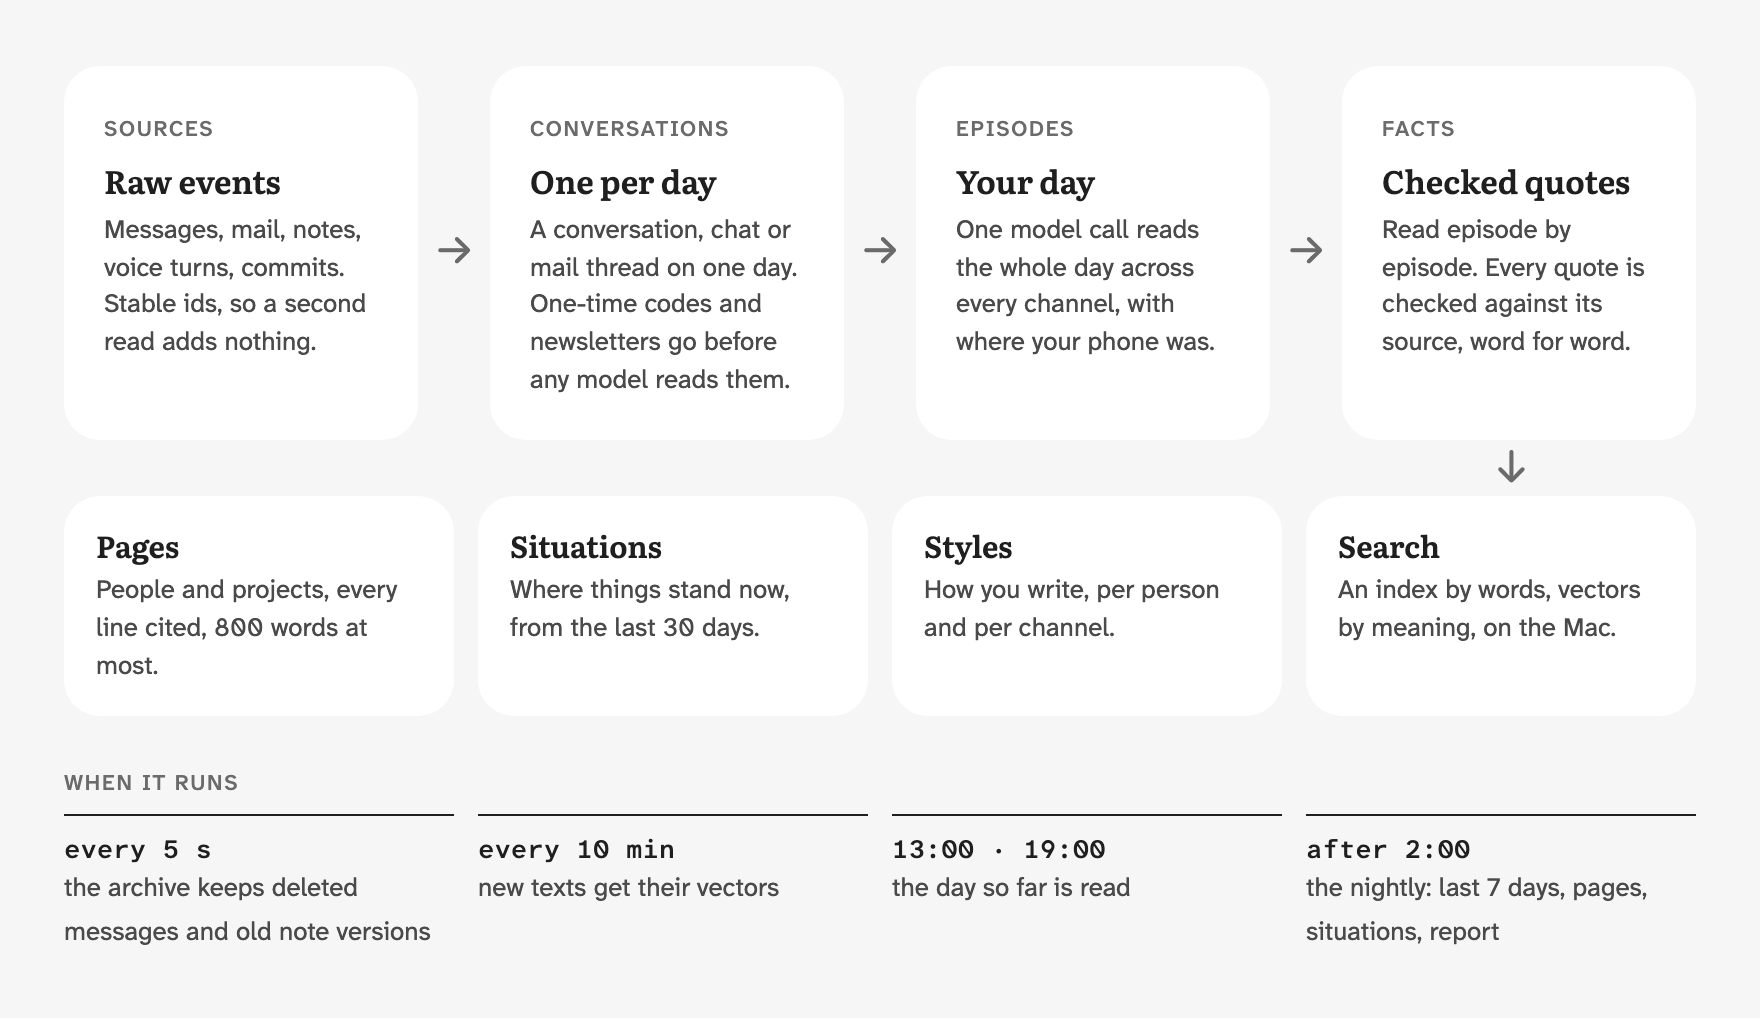
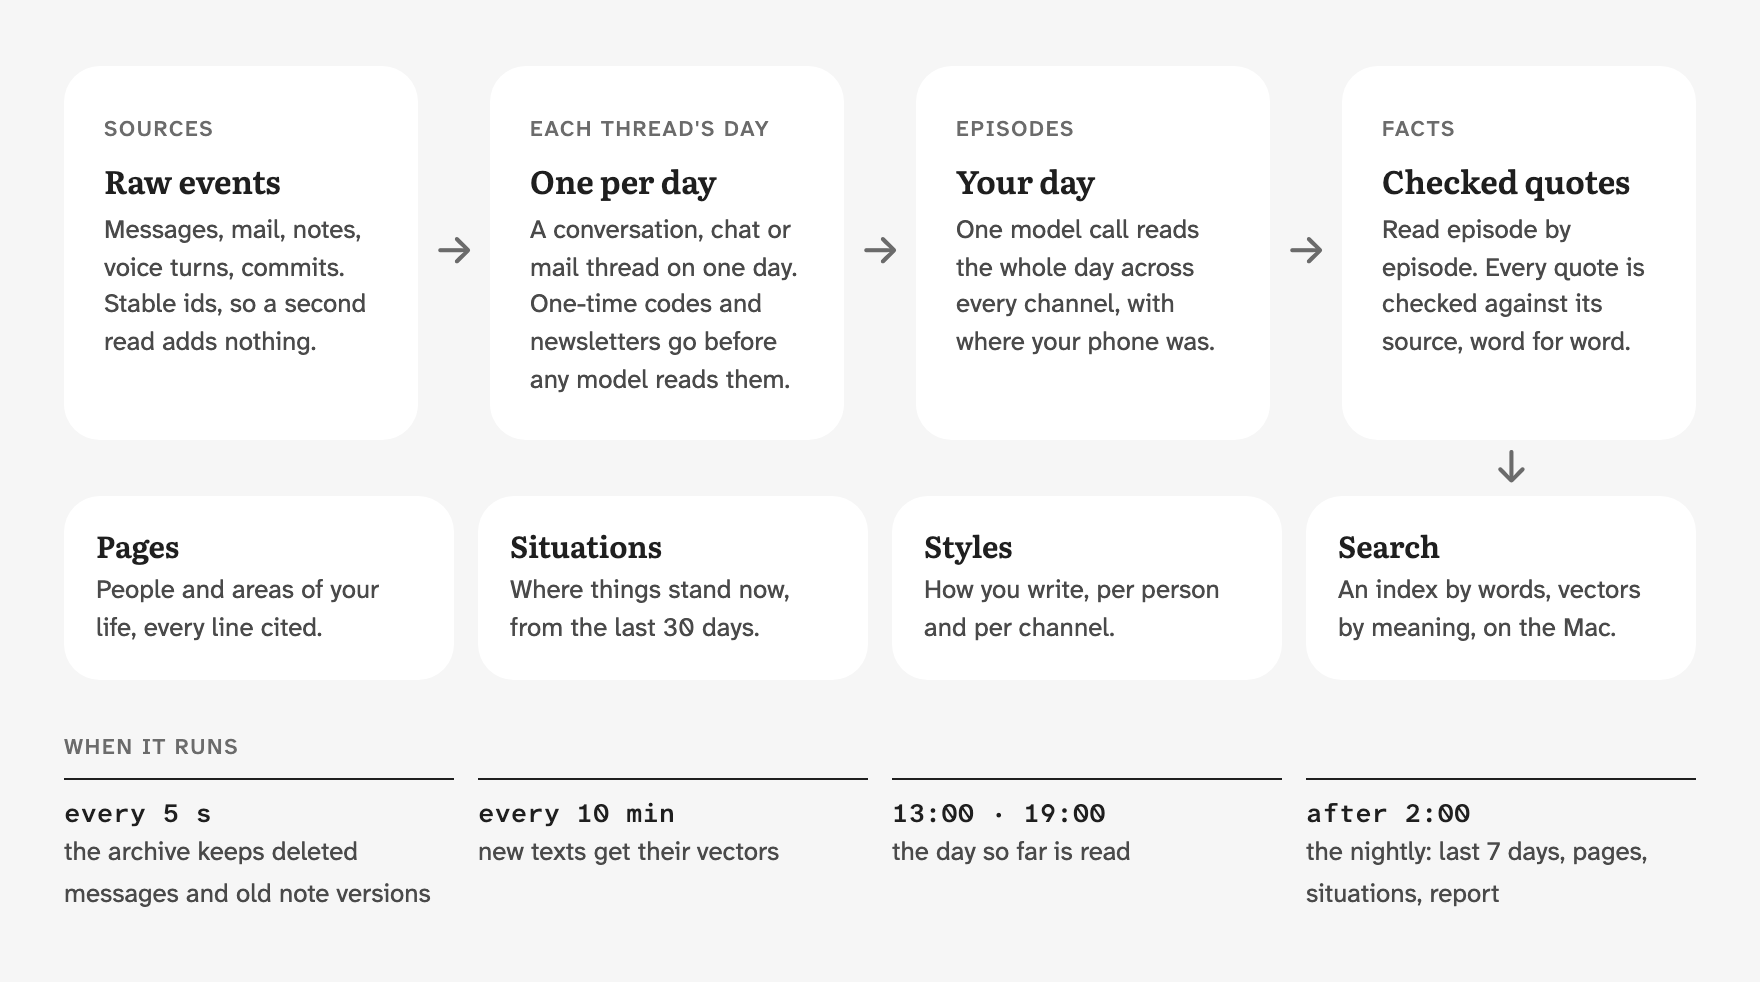
Verdict fixes: Funnel stated, archive sources named, pages per area, one owner hold (ownerHold), figures checked by demo.test, calendar marked as an illustration, duplicates dropped

diff --git a/scripts/demo.ts b/scripts/demo.ts
@@ -12,6 +12,8 @@ import {
   perSection,
   renderPage,
 } from "@life/server/src/memory/page-format";
+import { ownerHold } from "@life/server/src/memory/pages";
+import { readMe } from "@life/server/src/memory/read-truth";
 import { madeBy, unit } from "@life/server/src/memory/record-fixtures";
 
 // A made-up Life for the README and docs/examples.md: `bun scripts/demo.ts <new folder>` writes `data/` and `state/` there (the tests'
@@ -26,12 +28,6 @@ import { madeBy, unit } from "@life/server/src/memory/record-fixtures";
 //       read \`person me\` first. Today is Thursday 22 October 2026. Cite observation and episode ids. Answer concisely." \
 //     "Has my past week been aligned with my goals? What should I change next week?"
 // (The landlord transcript ran on 22 Oct with an earlier, shorter prompt.)
-//
-// The README's screenshots were made by hand, with no script kept: `snapshot()` (apps/server/src/host/status/snapshot.ts), run with the same
-// LIFE_OWNER_DATA_DIR and LIFE_STATE_DIR, printed the status snapshot as JSON; the cards about the Mac's own services were deleted from it
-// (/me and the whole Mac row), and Life.app's StatusWindow was drawn from
-// what was left, offscreen. The other cards still show what the Mac that drew them reported about itself, such as
-// Contacts readable and the archive copying, but none of its data.
 
 const out = resolve(process.argv[2] ?? "");
 const inside = (root: string) => !relative(root, out).startsWith("..");
@@ -75,13 +71,14 @@ write(join(data, "memory/zones.jsonl"), [
 ]);
 const me =
   "Sam, Life's made-up demo owner.\n\n## Goals\n1. Ship Tidepool's first beta by the end of November.\n2. Run three times a week.\n3. See friends at least once a week.\n4. Keep the flat in order.";
-writeFileSync(join(data, "truth/me.md"), `# Me\n\n${me}\n`);
+const meFile = `# Me\n\n${me}\n`;
+writeFileSync(join(data, "truth/me.md"), meFile);
 // His page as the first night writes it (pages.ts), holding truth/me.md: `person me` shows his goals from it.
 mkdirSync(join(data, "memory/pages/people"), { recursive: true });
 writeFileSync(
   join(data, "memory/pages/people/me.md"),
   renderPage({
-    hold: `${me.replace(/^/gm, "> ").replace(/> $/gm, ">")}\n\n_From truth/me.md: yours. Life never edits it._`,
+    hold: ownerHold(readMe(meFile)),
     layout: layoutOf("person:me"),
     meta: {
       built: "2026-10-22T02:40:00.000Z",

diff --git a/assets/readme/diagrams.html b/assets/readme/diagrams.html
@@ -324,7 +324,7 @@
             </li>
             <li>
               <b>Pages</b><br>
-              <span>one per person who matters, one per project</span>
+              <span>one per person who matters, one per area</span>
             </li>
             <li>
               <b>Situations</b><br>
@@ -379,7 +379,7 @@
         </div>
         <div class="arrow">→</div>
         <div class="card step">
-          <span class="label">Conversations</span>
+          <span class="label">Each thread's day</span>
           <h3>One per day</h3>
           <p>
             A conversation, chat or mail thread on one day. One-time codes and
@@ -409,7 +409,7 @@
       <div class="outs">
         <div class="card" style="padding:16px">
           <h3>Pages</h3>
-          <p>People and projects, every line cited, 800 words at most.</p>
+          <p>People and areas of your life, every line cited.</p>
         </div>
         <div class="card" style="padding:16px">
           <h3>Situations</h3>
@@ -447,7 +447,7 @@
         style="display:flex;justify-content:space-between;align-items:baseline;margin-bottom:18px"
       >
         <h2>The Past calendar</h2>
-        <span class="label">a made-up week · 15–21 October</span>
+        <span class="label">an illustration · a made-up week</span>
       </div>
       <div class="grid">
         <div></div>
@@ -595,7 +595,13 @@
           </div>
           <div class="box">
             <h3>Your assistant</h3>
-            <p>Claude or ChatGPT, over Tailscale, behind your sign-in</p>
+            <p>
+              Claude or ChatGPT, over Tailscale or Funnel, behind Life's sign-in
+            </p>
+          </div>
+          <div class="box">
+            <h3>Google</h3>
+            <p>The Past calendar or Google Tasks, if you pick them</p>
           </div>
           <div class="box">
             <h3>Scribe</h3>

diff --git a/scripts/demo.test.ts b/scripts/demo.test.ts
@@ -15,7 +15,11 @@ test("every fact and episode the README and the examples cite is in the demo scr
       )
     )
     .join("");
-  const readme = ["../README.md", "../docs/examples.md"]
+  const readme = [
+    "../README.md",
+    "../docs/examples.md",
+    "../assets/readme/diagrams.html",
+  ]
     .map((f) => readFileSync(join(import.meta.dir, f), "utf8"))
     .join("");
   const cited = [...readme.matchAll(/\b(?:obs|ep)_[0-9a-f]{12}\b/g)].map(

diff --git a/apps/server/src/memory/pages.ts b/apps/server/src/memory/pages.ts
@@ -106,7 +106,7 @@ function personHold(p: Person) {
   return `${quote(`**${p.name}** · ${facts.join(" · ")}`)}\n\n_From truth/people.yaml: yours. Life never edits it._`;
 }
 
-function ownerHold(me: Truth["me"]) {
+export function ownerHold(me: Truth["me"]) {
   return `${quote(me.text.split("\n").slice(1).join("\n"))}\n\n_From truth/me.md: yours. Life never edits it._`;
 }
 

diff --git a/README.md b/README.md
@@ -7,7 +7,7 @@
 A memory of your whole life, kept on your own Mac. Ask Claude or ChatGPT about anything you said, wrote, promised or
 did, and get an answer that cites where it comes from.
 
-<sub>Early: built for one person, run from source on an Apple-silicon Mac that stays on.</sub>
+<sub>Early: one user so far, run from source on an Apple-silicon Mac that stays on.</sub>
 
 [![License: MIT](https://img.shields.io/badge/license-MIT-181818.svg)](LICENSE)
 ![macOS 14+ on Apple silicon](https://img.shields.io/badge/macOS-14%2B%20·%20Apple%20silicon-181818.svg)
@@ -54,24 +54,15 @@ A real run, trimmed, on a made-up person: Claude Code with Life's read commands 
 goals are the ones that person wrote in `truth/me.md`. In your assistant, each `obs_…` (a fact) and `ep_…` (an episode)
 id opens what it cites and the message it came from.
 
-More to ask, each answered the same way:
-
-- What did I promise my landlord last week? Did I keep it?
-- Where was I on the evening of the 14th, and who was I with?
-- How are things with Ana right now?
-- Draft my reply to Ana, the way I usually write to her.
-- What did the message Leo deleted on WhatsApp say?
-- Where did my hours go this week: which apps, which projects?
-- What's coming up in the next ten days that I shouldn't forget?
-
-Full transcripts and more questions: [examples](docs/examples.md).
+Also: "What did I promise my landlord last week?", "How are things with Ana right now?", "What did the message Leo
+deleted on WhatsApp say?" More, with full transcripts: [examples](docs/examples.md).
 
 ## It also works when you don't ask
 
 - Each morning you get the night's report: what's new, what's due, what you promised and to whom.
 - When Life isn't sure about a fact, it asks you on its decisions page, one question at a time, whenever you like.
-- Name an agent of yours (say, Orbit) and say "hey Orbit, book the dentist" near your recorder: Life hears it, and
-  Orbit picks it up and gets on with it.
+- Say "hey Orbit, book the dentist" near your recorder, Orbit being an agent of yours: Life hears it, and Orbit
+  picks it up and gets on with it. [Set up your agent](docs/use/agent.md).
 - If a source stops reading (WhatsApp signed out, a bridge down), you get one email that day saying which.
 
 ## 1. Capture
@@ -88,11 +79,11 @@ Life reads what's already on your Mac, read-only, plus a few things it keeps on 
 | Apple Notes | Every version of every note, checklists included | Nothing |
 | Contacts | Names for phone numbers and addresses | Nothing |
 | Screen Time | Which apps and websites took your time, on the Mac and the iPhone | Screen Time on |
-| Code | Your commits, by repository and day | Your repositories on the Mac |
+| Code | Your commits, by repository and day | Your repositories in one folder. [Settings](docs/use/settings.md) |
 | Past assistant chats | Your claude.ai and ChatGPT history | An export file. [Settings](docs/use/settings.md) |
 
-Messages, WhatsApp chats and notes change or vanish, so Life keeps its own copy: every 5 seconds an archive saves
-each new message and each version of a note. A message deleted later, or a note you rewrote, stays readable. That
+WhatsApp, the bridged networks, Apple Notes and Screen Time change or forget, so Life keeps its own copy: every 5
+seconds an archive saves each new message, each version of a note and each Screen Time record. A message deleted later, or a note you rewrote, stays readable. That
 archive lives in your Mac's Application Support folder and in your backup, nowhere else.
 
 What each source reads, exactly: [sources](docs/sources.md).
@@ -101,7 +92,7 @@ What each source reads, exactly: [sources](docs/sources.md).
 
 <picture>
   <source media="(prefers-color-scheme: dark)" srcset="assets/readme/pipeline-dark.png">
-  <img src="assets/readme/pipeline-light.png" alt="The memory pipeline: sources become conversations, one per day; one model call reads each day into episodes; facts are read episode by episode with every quote checked; they feed pages, situations, communication styles and search. The archive runs every 5 seconds, vectors every 10 minutes, the day so far at 13:00 and 19:00, the nightly after 2:00.">
+  <img src="assets/readme/pipeline-light.png" alt="The memory pipeline: sources become each thread's day; one model call reads each day into episodes; facts are read episode by episode with every quote checked; they feed pages, situations, communication styles and search. The archive runs every 5 seconds, vectors every 10 minutes, the day so far at 13:00 and 19:00, the nightly after 2:00.">
 </picture>
 
 A model reads your life the way you'd tell it: a day at a time, every channel together. The voice note, the WhatsApp
@@ -110,7 +101,8 @@ thread and the mail about the same dinner end up in one place. It writes down:
 - Episodes: what you did, when, where and with whom, and what came of it. They also go to your Past calendar.
 - Facts: promises, plans, news, things someone told you, each with its exact quote. Life checks every quote against
   its source, word for word, so a fact can't cite something nobody said.
-- Pages: one for each person who matters to you and each project, every line citing its facts. Close people get a
+- Pages: one for each person who matters to you and each area of your life (a project, your health), every line
+  citing its facts. Close people get a
   section that doesn't age: your agreements, your history, the turning points.
 - Situations: where things stand now, for you and for each person close to you, rebuilt each night from the last 30
   days. This is what answers "how are things with Ana?".
@@ -123,8 +115,8 @@ thread and the mail about the same dinner end up in one place. It writes down:
   <img src="assets/readme/person-light.png" alt="A made-up person in Life: Ana's situation (close friend, beta tester, a birthday dinner on Saturday) and how you write to her, each line with its source id.">
 </picture>
 
-Who gets a page is decided from what the sources show (two-way chats, time spent together, how recent), never from
-what a model guessed. You correct anything by saying so to your assistant; your word is kept and wins over the
+Who gets a page is judged from what code counts in the sources (two-way chats, time spent together, how recent),
+never from what a model wrote about someone. You correct anything by saying so to your assistant; your word is kept and wins over the
 memory.
 
 Nothing is ready to ask on day one. Tonight, after 2:00, Life reads your last 7 days; then every night, plus the day
@@ -135,7 +127,7 @@ How the pipeline is built, and why: [architecture](docs/architecture.md). Every 
 
 ## 3. Act
 
-Life answers through its connector, a private MCP server on your Mac that Claude (claude.ai, the apps, Claude Code)
+Life answers through its connector, an MCP server on your Mac, behind its own sign-in, that Claude (claude.ai, the apps, Claude Code)
 and ChatGPT add as a custom connector. It reads your memory: a person, a day, a search, your open to-dos, your chats.
 It changes only two things, and only when you ask: a correction to the memory, and an item on your to-do list.
 [Connect your assistant](docs/use/connect.md).
@@ -149,8 +141,6 @@ It changes only two things, and only when you ask: a correction to the memory, a
   asked for what.
 - The Past calendar is a Google or Apple calendar Life fills with every episode, so your week looks back at you
   where you already look ahead.
-- Your agents are assistants of your own, each woken by a word you say ("hey Orbit"). Life hears the request, keeps
-  it, and the agent picks it up. [Set up your agent](docs/use/agent.md).
 
 Life itself sends nothing into a chat, ever. Its only mail and notifications are to you.
 
@@ -158,12 +148,12 @@ Life itself sends nothing into a chat, ever. Its only mail and notifications are
 
 <picture>
   <source media="(prefers-color-scheme: dark)" srcset="assets/readme/stack-dark.png">
-  <img src="assets/readme/stack-light.png" alt="Where Life runs. On you: the recorder and lifelog on the iPhone. On your Mac: Life.app, Lifelog Host, the speech models, the embedder, the bridges and your memory. Outside, by your choice: the model, your assistant over Tailscale, Scribe for rare languages, the encrypted backup and Life's mail to you.">
+  <img src="assets/readme/stack-light.png" alt="Where Life runs. On you: the recorder and lifelog on the iPhone. On your Mac: Life.app, Lifelog Host, the speech models, the embedder, the bridges and your memory. Outside, only what you turn on: the model, your assistant over Tailscale, Google for the Past calendar or Tasks, Scribe for rare languages, the encrypted backup and Life's mail to you.">
 </picture>
 
 | Part | What it is |
 |---|---|
-| Reading | One model for every step: your Claude or ChatGPT subscription (Life runs `claude` or `codex`, with no tools), or an [allmodels.io](https://allmodels.io) key. Outputs are cached by input and prompt, so a night re-reads only what changed. |
+| Reading | Your Claude or ChatGPT subscription (Life runs `claude` or `codex`, with no tools), or an [allmodels.io](https://allmodels.io) key, each in three tiers: fast, main and deep. Outputs are cached by input and prompt, so a night re-reads only what changed. |
 | Search by meaning | [EmbeddingGemma 300M](https://huggingface.co/google/embeddinggemma-300m), run by llama.cpp on your Mac, for your voice and your memory alike. No text leaves the Mac to be embedded. |
 | Transcription | lifelog's speech service, on your Mac: Nemotron 3 finds who speaks when, VoxLingua107 the language, Parakeet Ultra the words. ElevenLabs Scribe (paid, by the hour of speech) takes the languages these miss, or all of it if you prefer. |
 | Voices | SpeechBrain's ECAPA model, on your Mac, learning only from the names you give. |
@@ -171,7 +161,7 @@ Life itself sends nothing into a chat, ever. Its only mail and notifications are
 | Apps | Life.app, a SwiftUI menu-bar app that keeps it all running; the pages in React; lifelog's iPhone and Watch apps in Swift 6. |
 | Memory | Plain text (Markdown and JSON lines) in a git repository with no remote; SQLite for the archive, the search index and the vectors. |
 | Bridges | A local Matrix server (Synapse) with mautrix bridges, one background job, for the networks with no Mac app. |
-| Network | Tailscale, so your assistant reaches the Mac and nothing else does. |
+| Network | Tailscale: Claude Code reaches the Mac on your tailnet; claude.ai and ChatGPT through Tailscale Funnel, a public address with only Life's sign-in in front. |
 | Backup and mail | restic, encrypted, wherever you point it; Resend for the report, or a notification. |
 
 The code: [architecture](docs/architecture.md#the-code), and lifelog's own [architecture](apps/lifelog/docs/architecture.md).
@@ -202,12 +192,11 @@ and pages that changed. The status window shows the tokens used this week. On a 
 ## Where your data goes
 
 Your memory is plain text in a git repository on your Mac, with no remote, and Life never pushes it. What does leave
-the Mac (the text sent to your model, what your assistant reads, the backup and Life's mail to you) is listed in
-[SECURITY.md](SECURITY.md#what-leaves-the-mac).
+the Mac is listed in [SECURITY.md](SECURITY.md#what-leaves-the-mac).
 
 ## Status and limitations
 
-Life was built for one person and has one user so far. Its author uses it every day. Backups, email and the backfill
+Its author uses Life every day. Backups, email and the backfill
 have no screen in the app yet, only [settings](docs/use/settings.md).
 
 The app is not signed with a Developer ID or notarized. An ad hoc build loses its Keychain items and its Full Disk
